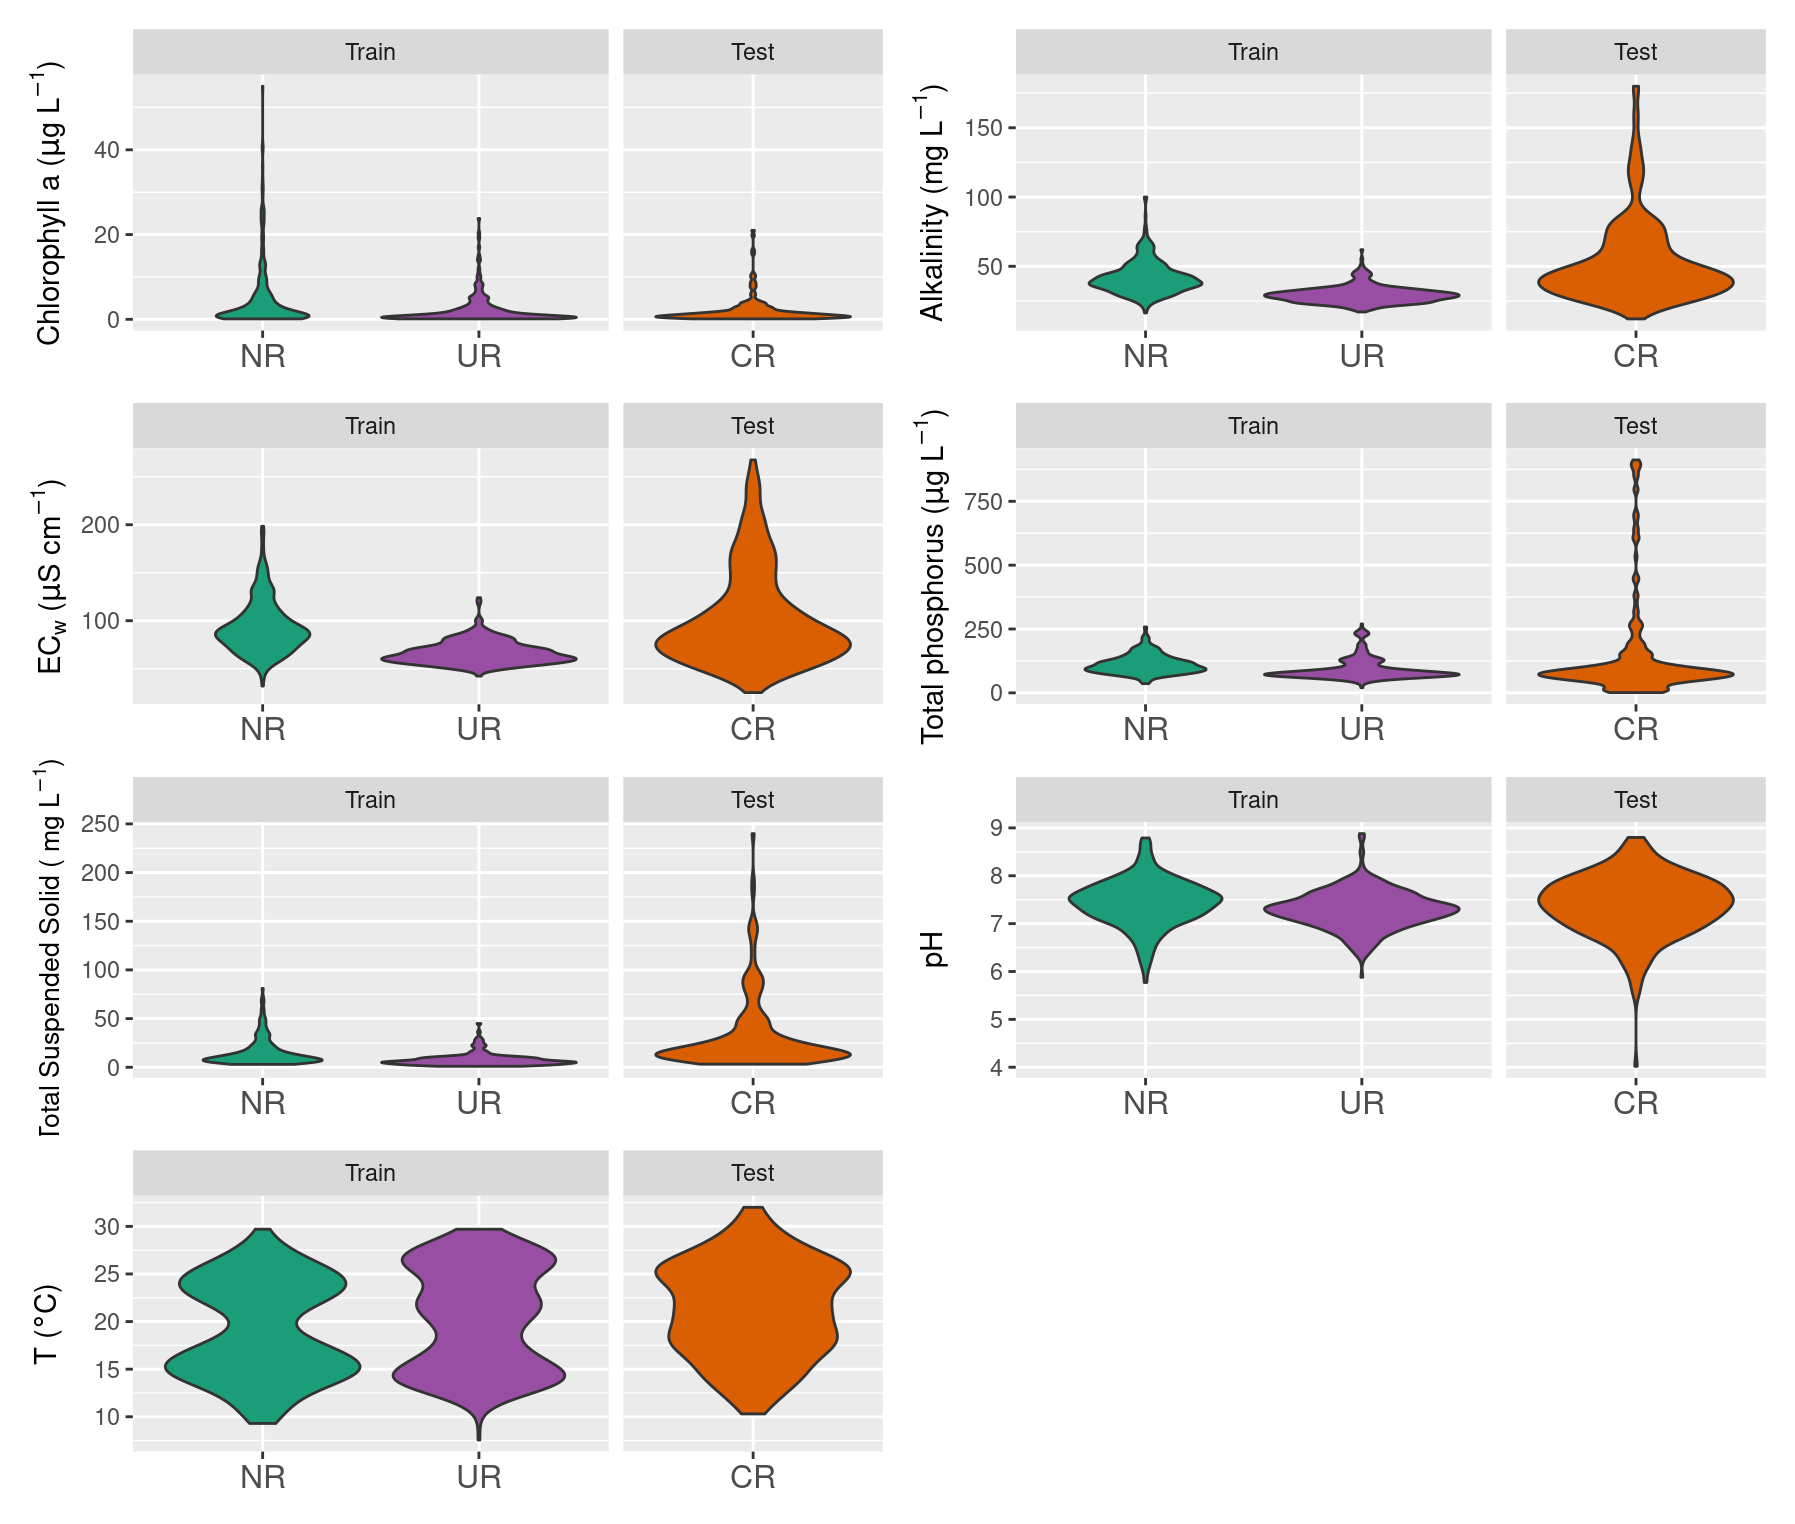
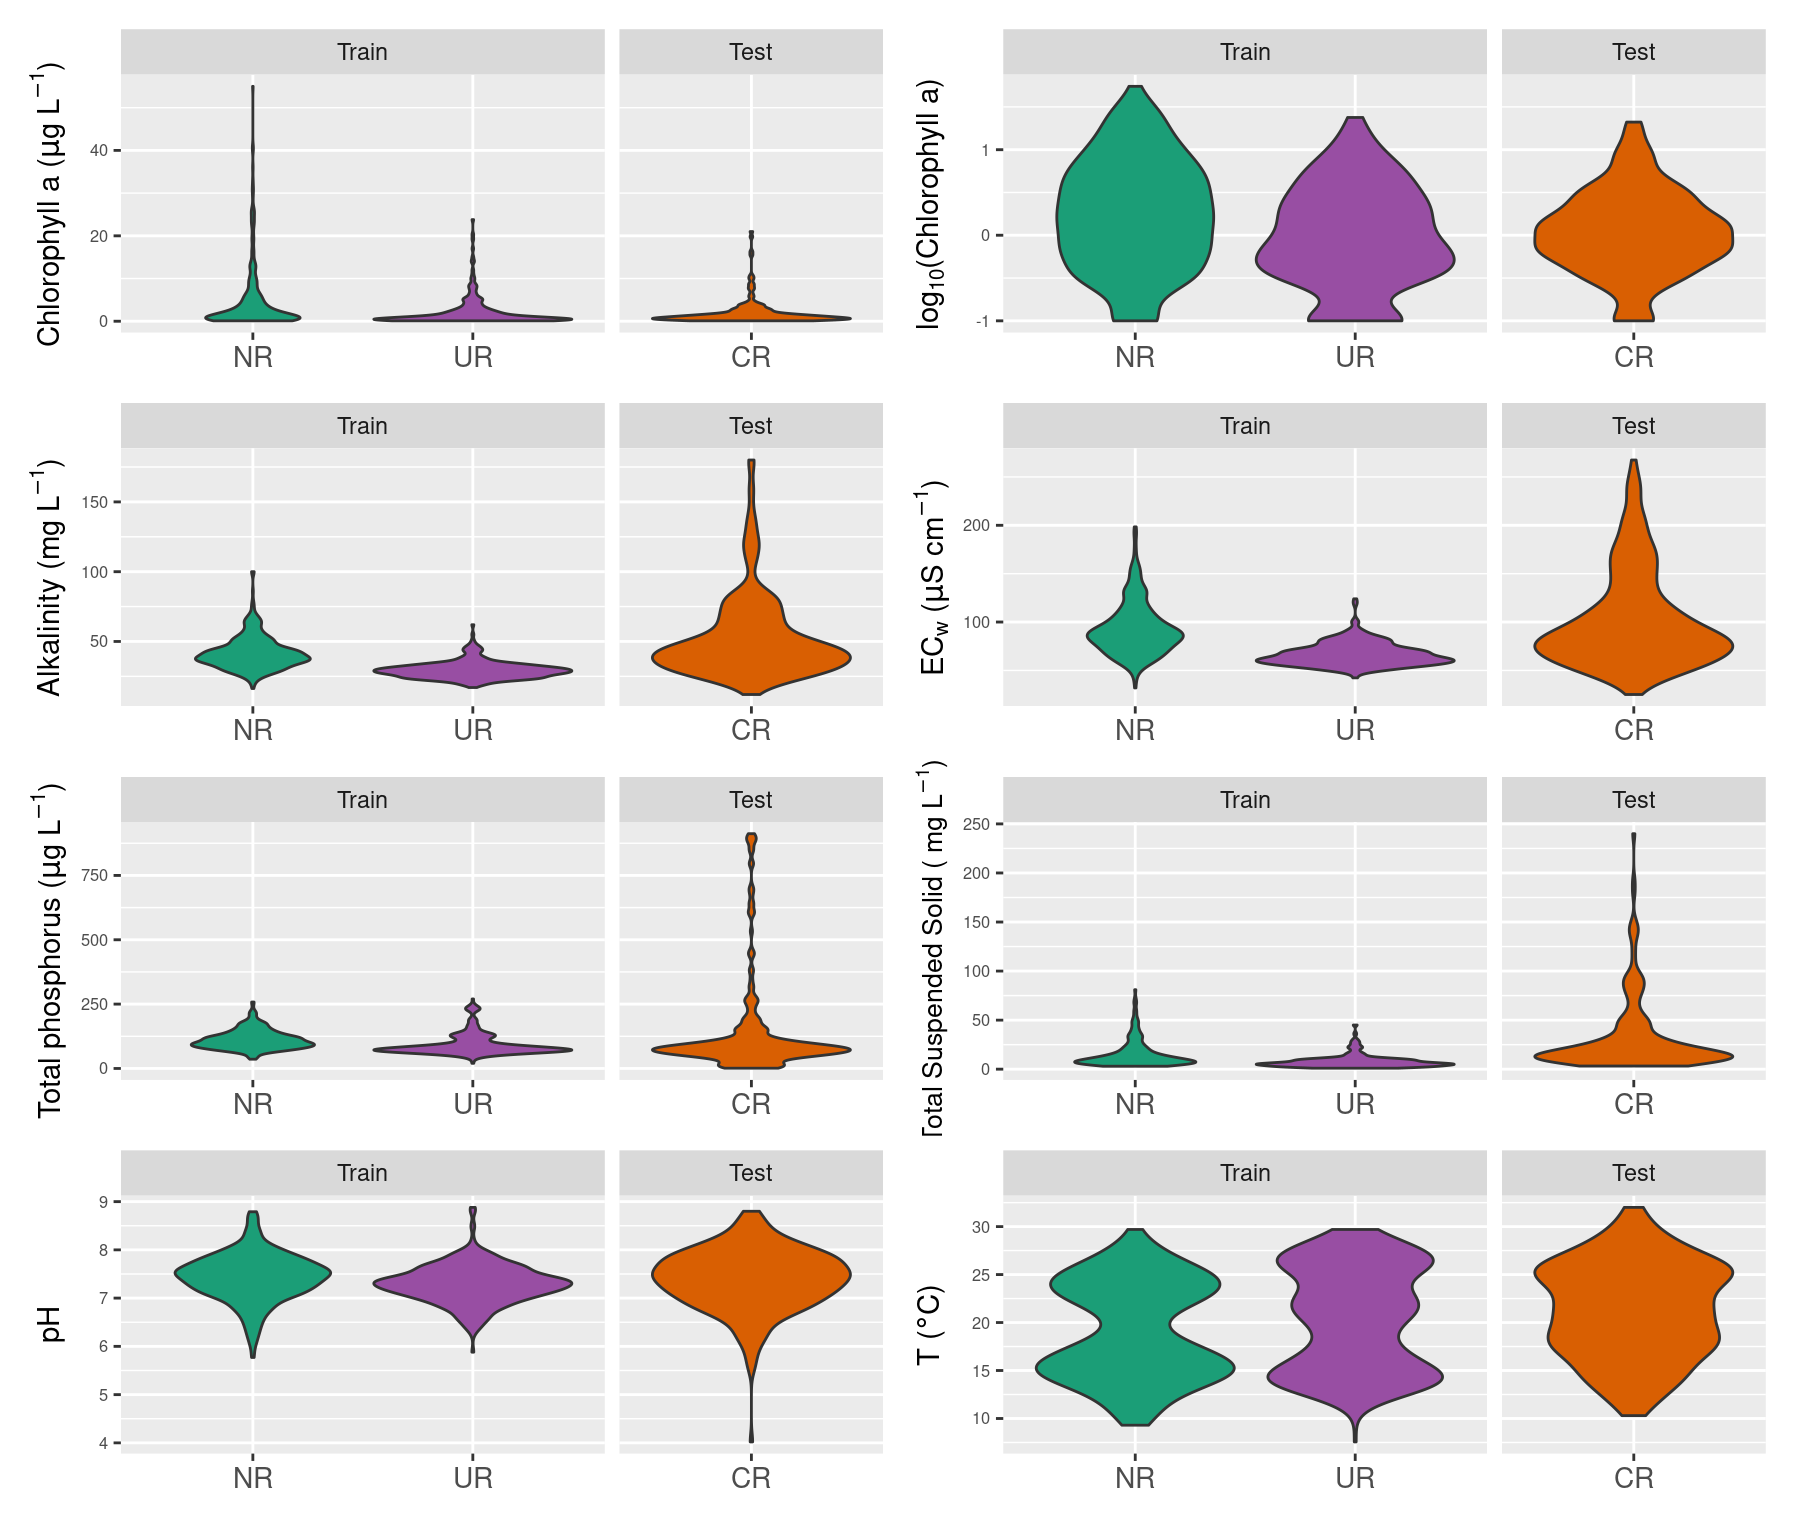
Updated with figure changes

diff --git a/Interactive_code_files/Data_AnalysisVisualization.md b/Interactive_code_files/Data_AnalysisVisualization.md
@@ -258,7 +258,7 @@ plot_x_limits <- tribble(
   "alk", 0, 150,
   "cond",0, 300,
   "tot_phos", 0, 1000,
-  "pH", 5,8,
+  "pH", 5,10,
   "tss", 0, 600,
   "temp", 0 , 40
 )
@@ -285,13 +285,14 @@ data_fig3 <- data_fig3 %>%
 # Set x axes range according to the same as BC2021
 fig3_function_plot <- function (data, lmin,lmax,xlab) {
   ggplot(data, aes(x = value , y = chla)) +
-    geom_point(alpha = 0.8, size = 1.5 ) +
+    geom_point(alpha = 0.8, size = rel(0.5)) +
     scale_x_continuous(limits = c( xmin = lmin , xmax = lmax)) +
     scale_y_continuous(limits = c(0,45),
                        breaks = seq(from = 0,to=48,by = 5)) +
     labs( x = xlab, y = expression(paste("Chlorophyll a (", mu,"g L"^-1,")"))) +
     theme_classic() +
-    theme(axis.title = element_text(size = 10))
+    theme(axis.title = element_text(size = rel(0.7)),
+           plot.margin = unit(c(0, 0, 0, 0), "cm"))
     
 }
 
@@ -309,22 +310,28 @@ Extract each plot for label variables adequately
 
 ``` r
 fig3_alk <- plots3[[1]][[1]] +
-  labs(x = expression(paste("Alkalinity (mg L"^-1,")")) )
+  labs(x = expression(paste("Alkalinity (mg L"^-1,")")) ) +
+   coord_fixed(ratio = 3)
 
 fig3_ec <- plots3[[1]][[2]] +
-  labs(x = expression(paste("EC"[w] ," (", mu,"S cm"^-1,")")) )
+  labs(x = expression(paste("EC"[w] ," (", mu,"S cm"^-1,")")) ) + 
+   coord_fixed(ratio = 6)
 
 fig3_tp <- plots3[[1]][[3]] +
-  labs(x = expression(paste("Total Phosphorus (", mu,"g L"^-1,")")) )
+  labs(x = expression(paste("Total Phosphorus (", mu,"g L"^-1,")")) ) +
+ coord_fixed(ratio = 20)
 
 fig3_sst <- plots3[[1]][[4]] +
-  labs(x = expression(paste("Total Suspended Solids ( mg L"^-1,")")) ) 
+  labs(x = expression(paste("Total Suspended Solids ( mg L"^-1,")")) ) +
+   coord_fixed(ratio = 12)
 
 fig3_ph <- plots3[[1]][[5]] +
-  labs(x = "pH" )
+  labs(x = "pH" ) + 
+   coord_fixed(ratio = 0.1)
 
 fig3_ta <- plots3[[1]][[6]] +
-  labs(x = expression(paste("T (", degree,"C)")) ) 
+  labs(x = expression(paste("T (", degree,"C)")) ) +
+   coord_fixed(ratio = 0.8)
 ```
 
 ### Load all panel figures copied from BC2021 that are saved each one ina differente `.png` file
@@ -338,96 +345,48 @@ library(cowplot) # Paste plots together
 
 # Load `png` and transform
 f3a<-readPNG("2.Datos/Fig3BC/3a.png")
-fig3a <- as.ggplot(grid::rasterGrob(f3a, interpolate=TRUE))
+fig3a <- as.ggplot(grid::rasterGrob(f3a, interpolate=TRUE)) +
+    theme(plot.margin = unit(c(0, -1, 0, -1), "cm"))
+
 f3b<-readPNG("2.Datos/Fig3BC/3b.png")
-fig3b <-as.ggplot(grid::rasterGrob(f3b, interpolate=TRUE))
+fig3b <-as.ggplot(grid::rasterGrob(f3b, interpolate=TRUE)) +
+    theme(plot.margin = unit(c(0, -1, 0, -1), "cm"))
+
 f3c<-readPNG("2.Datos/Fig3BC/3c.png")
-fig3c <- as.ggplot(grid::rasterGrob(f3c, interpolate=TRUE))
+fig3c <- as.ggplot(grid::rasterGrob(f3c, interpolate=TRUE)) + 
+    theme(plot.margin = unit(c(0, -1, 0, -1), "cm"))
+
 f3d<-readPNG("2.Datos/Fig3BC/3d.png")
-fig3d <- as.ggplot(grid::rasterGrob(f3d, interpolate=TRUE))
+fig3d <- as.ggplot(grid::rasterGrob(f3d, interpolate=TRUE)) +
+    theme(plot.margin = unit(c(0, -1, 0, -1), "cm"))
+
 f3e<-readPNG("2.Datos/Fig3BC/3e.png")
-fig3e <- as.ggplot(grid::rasterGrob(f3e, interpolate=TRUE))
+fig3e <- as.ggplot(grid::rasterGrob(f3e, interpolate=TRUE)) +
+  theme(plot.margin = unit(c(0, -1, 0, -1), "cm"))
+
 f3f<-readPNG("2.Datos/Fig3BC/3f.png")
-fig3f <- as.ggplot(grid::rasterGrob(f3f, interpolate=TRUE))
-
-# Paste together each variable fig from BC and our
-figure3a <- ggdraw(fig3_alk + theme_half_open(12)) +
-  draw_plot(fig3a, .45, .45, .5, .5) +
-  draw_plot_label(
-    c("A", ""),
-    c(0, 0.45),
-    c(1, 0.95),
-    size = 12
-  )
-
-figure3b <- ggdraw(fig3_ec + theme_half_open(12)) +
-  draw_plot(fig3b, .45, .45, .5, .5) +
-  draw_plot_label(
-    c("B", ""),
-    c(0, 0.45),
-    c(1, 0.95),
-    size = 12
-  )
-
-figure3c <- ggdraw(fig3_tp + theme_half_open(12)) +
-  draw_plot(fig3c, .45, .45, .5, .5) +
-  draw_plot_label(
-    c("C", ""),
-    c(0, 0.45),
-    c(1, 0.95),
-    size = 12
-  )
-
-
-figure3d <- ggdraw(fig3_ph + theme_half_open(12)) +
-  draw_plot(fig3d, .45, .45, .5, .5) +
-  draw_plot_label(
-    c("D", ""),
-    c(0, 0.45),
-    c(1, 0.95),
-    size = 12
-  )
-
-
-
-figure3e <- ggdraw(fig3_sst + theme_half_open(12)) +
-  draw_plot(fig3e, .45, .45, .5, .5) +
-  draw_plot_label(
-    c("E", ""),
-    c(0, 0.45),
-    c(1, 0.95),
-    size = 12
-  )
-
-
-figure3f <- ggdraw(fig3_ta + theme_half_open(12)) +
-  draw_plot(fig3f, .45, .45, .5, .5) +
-  draw_plot_label(
-    c("F", ""),
-    c(0, 0.45),
-    c(1, 0.95),
-    size = 12
-  )
+fig3f <- as.ggplot(grid::rasterGrob(f3f, interpolate=TRUE)) +
+    theme(plot.margin = unit(c(0, -1, 0, -1), "cm"))
 ```
 
 ### Plot figure 3
 
 ``` r
-plot_grid(fig3a, fig3_alk,
-                           fig3b, fig3_ec,
-                           fig3c, fig3_tp,
-                           fig3d, fig3_ph,
-                           fig3e, fig3_sst,
-                           fig3f, fig3_ta,
+plot_grid(fig3a, fig3_alk ,
+                           fig3b, fig3_ec ,
+                           fig3c, fig3_tp ,
+                           fig3d, fig3_ph ,
+                           fig3e, fig3_sst ,
+                           fig3f, fig3_ta ,
                            labels = c("", "a'",
-                                      "", "b'",
-                                      "", "c'",
-                                      "", "d'",
-                                      "", "e'",
-                                      "", "f'"),
-                           label_x=.8,
+                              "", "b'",
+                              "", "c'",
+                              "", "d'",
+                              "", "e'",
+                              "", "f'"),
+                           label_x=0.8,
                            label_fontface = "plain",
-                           label_fontfamily = "times")
+                           label_fontfamily = "times", ncol = 2)
 ```
 
 <img src="Data_AnalysisVisualization_files/figure-gfm/Figure 3-1.png" width="897.6" style="display: block; margin: auto;" />
@@ -437,10 +396,11 @@ temperature. In all comparative cases, the graphs redrawn from BC2021
 are show to the left (letters) and our graphs to the right
 (prime-letters). To facilitate the visual comparison between Figure 3 of
 BC2021 and this paper, the axes (x and y) of the biplots are drawn with
-the same scaling. Note that this procedure leaves out 58 pH values in
-our plot (d´) but incudes the Chl-a value of 55 µg L-1 that BC2021
-considered to as an outlier, which is not an outlier according to the
-analysis presented by us.
+the same scaling. Note that this was not applied for the pH (in BC2021
+the axis goes up to 8) and in our case that dropped 58 values on the
+outside(d´). The Chl-a value of 55 µg L-1 that BC2021 considered to as
+an outlier (RN 2018-04-17) is not shown in any of the biplots, because
+the Chl-a axis ends at 45 µg L-1.
 
 ### Differences within rivers used for train model (Negro and Uruguay)
 
@@ -449,6 +409,7 @@ data-list each var transform into single data frame to make the plot
 
 ``` r
 diff_rivers_data <- bc_data_limit %>% 
+   mutate(logChla = log10(chla)) %>% 
   pivot_longer (!all_of(id_vars)) %>% 
   mutate (river_label = fct_recode(river,
                                    UR = "Uruguay",
@@ -465,7 +426,8 @@ fig4_function <- function(data) {
     scale_fill_manual(na.translate = FALSE , 
                       values = c("#d95f02", "#1b9e77","#984ea3"))+
     theme(legend.position = "none",
-          axis.text.x = element_text(size = 12)) +
+          axis.text.x = element_text(size = rel(1.2)),
+          axis.text.y = element_text(size = rel (0.7))) +
     labs(x = NULL) +
     facet_grid( ~ fct_relevel(data_model,"Train","Test"),
                 scales = "free_x",
@@ -507,12 +469,16 @@ fig4_ph <- plots4[[1]][[6]] +
 
 fig4_ta <- plots4[[1]][[7]] +
   labs(y = expression(paste("T (", degree,"C)")) )
+
+fig4_logchla <- plots4[[1]][[8]] +
+  labs(y =  expression(paste("log"[10], "(Chlorophyll a)")) )
 ```
 
 Plot figure 4
 
 ``` r
-wrap_plots(fig4_chla, fig4_alk,fig4_ec,
+wrap_plots(fig4_chla, fig4_logchla,
+                      fig4_alk,fig4_ec,
                       fig4_tp,fig4_sst,fig4_ph,
                       fig4_ta, ncol = 2)
 ```
@@ -577,6 +543,7 @@ mutate (group = factor(group) )%>%
 | tss       | p&lt;0.05 | p&lt;0.05 |
 | pH        | p&lt;0.05 | p&lt;0.05 |
 | temp      | n.s       | p&lt;0.05 |
+| logChla   | n.s       | p&lt;0.05 |
 
 #### Session info
 
@@ -584,9 +551,9 @@ mutate (group = factor(group) )%>%
 sessionInfo()
 ```
 
-    ## R version 4.1.0 (2021-05-18)
+    ## R version 4.1.1 (2021-08-10)
     ## Platform: x86_64-pc-linux-gnu (64-bit)
-    ## Running under: Ubuntu 20.04.2 LTS
+    ## Running under: Ubuntu 20.04.3 LTS
     ## 
     ## Matrix products: default
     ## BLAS:   /usr/lib/x86_64-linux-gnu/blas/libblas.so.3.9.0
@@ -605,30 +572,30 @@ sessionInfo()
     ## [8] base     
     ## 
     ## other attached packages:
-    ##  [1] nlme_3.1-152       cowplot_1.1.1      ggplotify_0.0.7    png_0.1-7         
+    ##  [1] nlme_3.1-152       cowplot_1.1.1      ggplotify_0.0.8    png_0.1-7         
     ##  [5] patchwork_1.1.1    lubridate_1.7.10   RColorBrewer_1.1-2 forcats_0.5.1     
-    ##  [9] stringr_1.4.0      dplyr_1.0.7        purrr_0.3.4        readr_2.0.0       
-    ## [13] tidyr_1.1.3        tibble_3.1.3       ggplot2_3.3.5      tidyverse_1.3.1   
+    ##  [9] stringr_1.4.0      dplyr_1.0.7        purrr_0.3.4        readr_2.0.1       
+    ## [13] tidyr_1.1.3        tibble_3.1.4       ggplot2_3.3.5      tidyverse_1.3.1   
     ## [17] knitr_1.33        
     ## 
     ## loaded via a namespace (and not attached):
     ##  [1] Rcpp_1.0.7          lattice_0.20-44     assertthat_0.2.1   
-    ##  [4] digest_0.6.27       utf8_1.2.2          R6_2.5.0           
-    ##  [7] cellranger_1.1.0    backports_1.2.1     reprex_2.0.0       
+    ##  [4] digest_0.6.27       utf8_1.2.2          R6_2.5.1           
+    ##  [7] cellranger_1.1.0    backports_1.2.1     reprex_2.0.1       
     ## [10] evaluate_0.14       httr_1.4.2          highr_0.9          
-    ## [13] pillar_1.6.1        rlang_0.4.11        readxl_1.3.1       
-    ## [16] rstudioapi_0.13     rmarkdown_2.9       labeling_0.4.2     
+    ## [13] pillar_1.6.2        rlang_0.4.11        readxl_1.3.1       
+    ## [16] rstudioapi_0.13     rmarkdown_2.10      labeling_0.4.2     
     ## [19] bit_4.0.4           munsell_0.5.0       broom_0.7.9        
-    ## [22] compiler_4.1.0      modelr_0.1.8        xfun_0.24          
+    ## [22] compiler_4.1.1      modelr_0.1.8        xfun_0.25          
     ## [25] gridGraphics_0.5-1  pkgconfig_2.0.3     htmltools_0.5.1.1  
     ## [28] tidyselect_1.1.1    fansi_0.5.0         crayon_1.4.1       
     ## [31] tzdb_0.1.2          dbplyr_2.1.1        withr_2.4.2        
     ## [34] jsonlite_1.7.2      gtable_0.3.0        lifecycle_1.0.0    
     ## [37] DBI_1.1.1           magrittr_2.0.1      scales_1.1.1       
-    ## [40] cli_3.0.1           stringi_1.7.3       vroom_1.5.3        
+    ## [40] cli_3.0.1           stringi_1.7.3       vroom_1.5.4        
     ## [43] farver_2.1.0        fs_1.5.0            xml2_1.3.2         
     ## [46] rvcheck_0.1.8       ellipsis_0.3.2      generics_0.1.0     
-    ## [49] vctrs_0.3.8         tools_4.1.0         bit64_4.0.5        
-    ## [52] glue_1.4.2          hms_1.1.0           parallel_4.1.0     
+    ## [49] vctrs_0.3.8         tools_4.1.1         bit64_4.0.5        
+    ## [52] glue_1.4.2          hms_1.1.0           parallel_4.1.1     
     ## [55] yaml_2.2.1          colorspace_2.0-2    BiocManager_1.30.16
-    ## [58] rvest_1.0.1         haven_2.4.1
+    ## [58] rvest_1.0.1         haven_2.4.3
